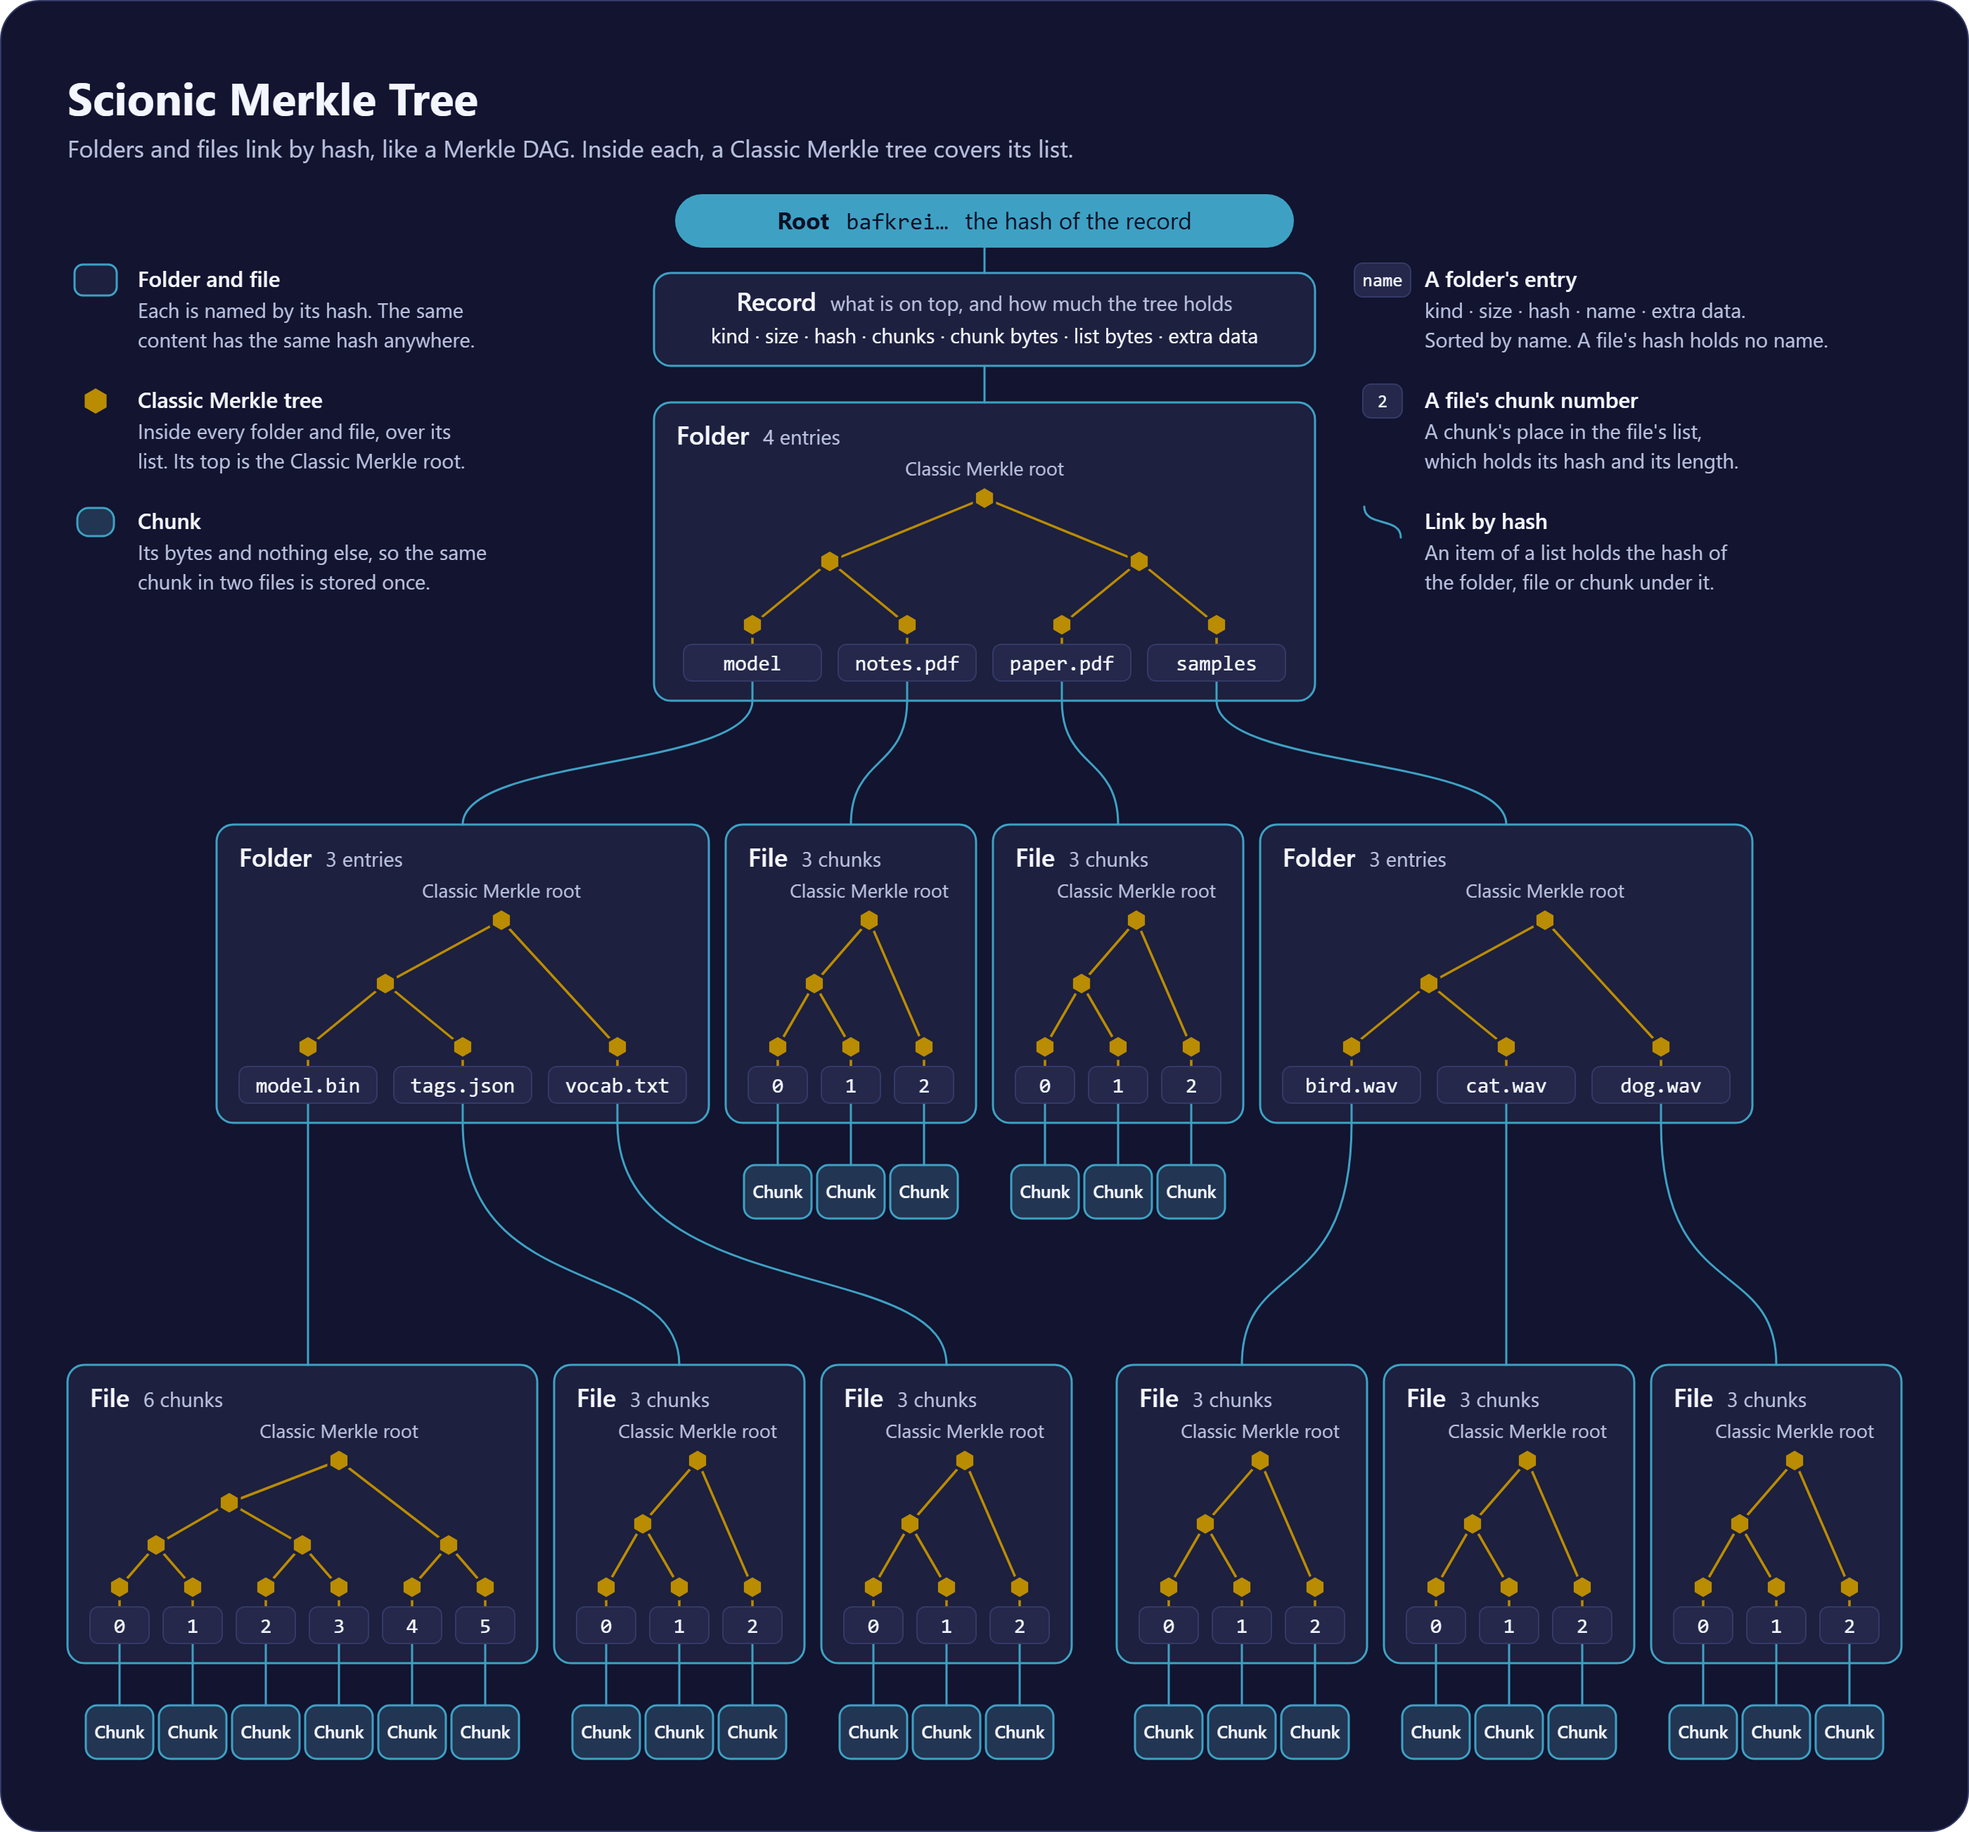
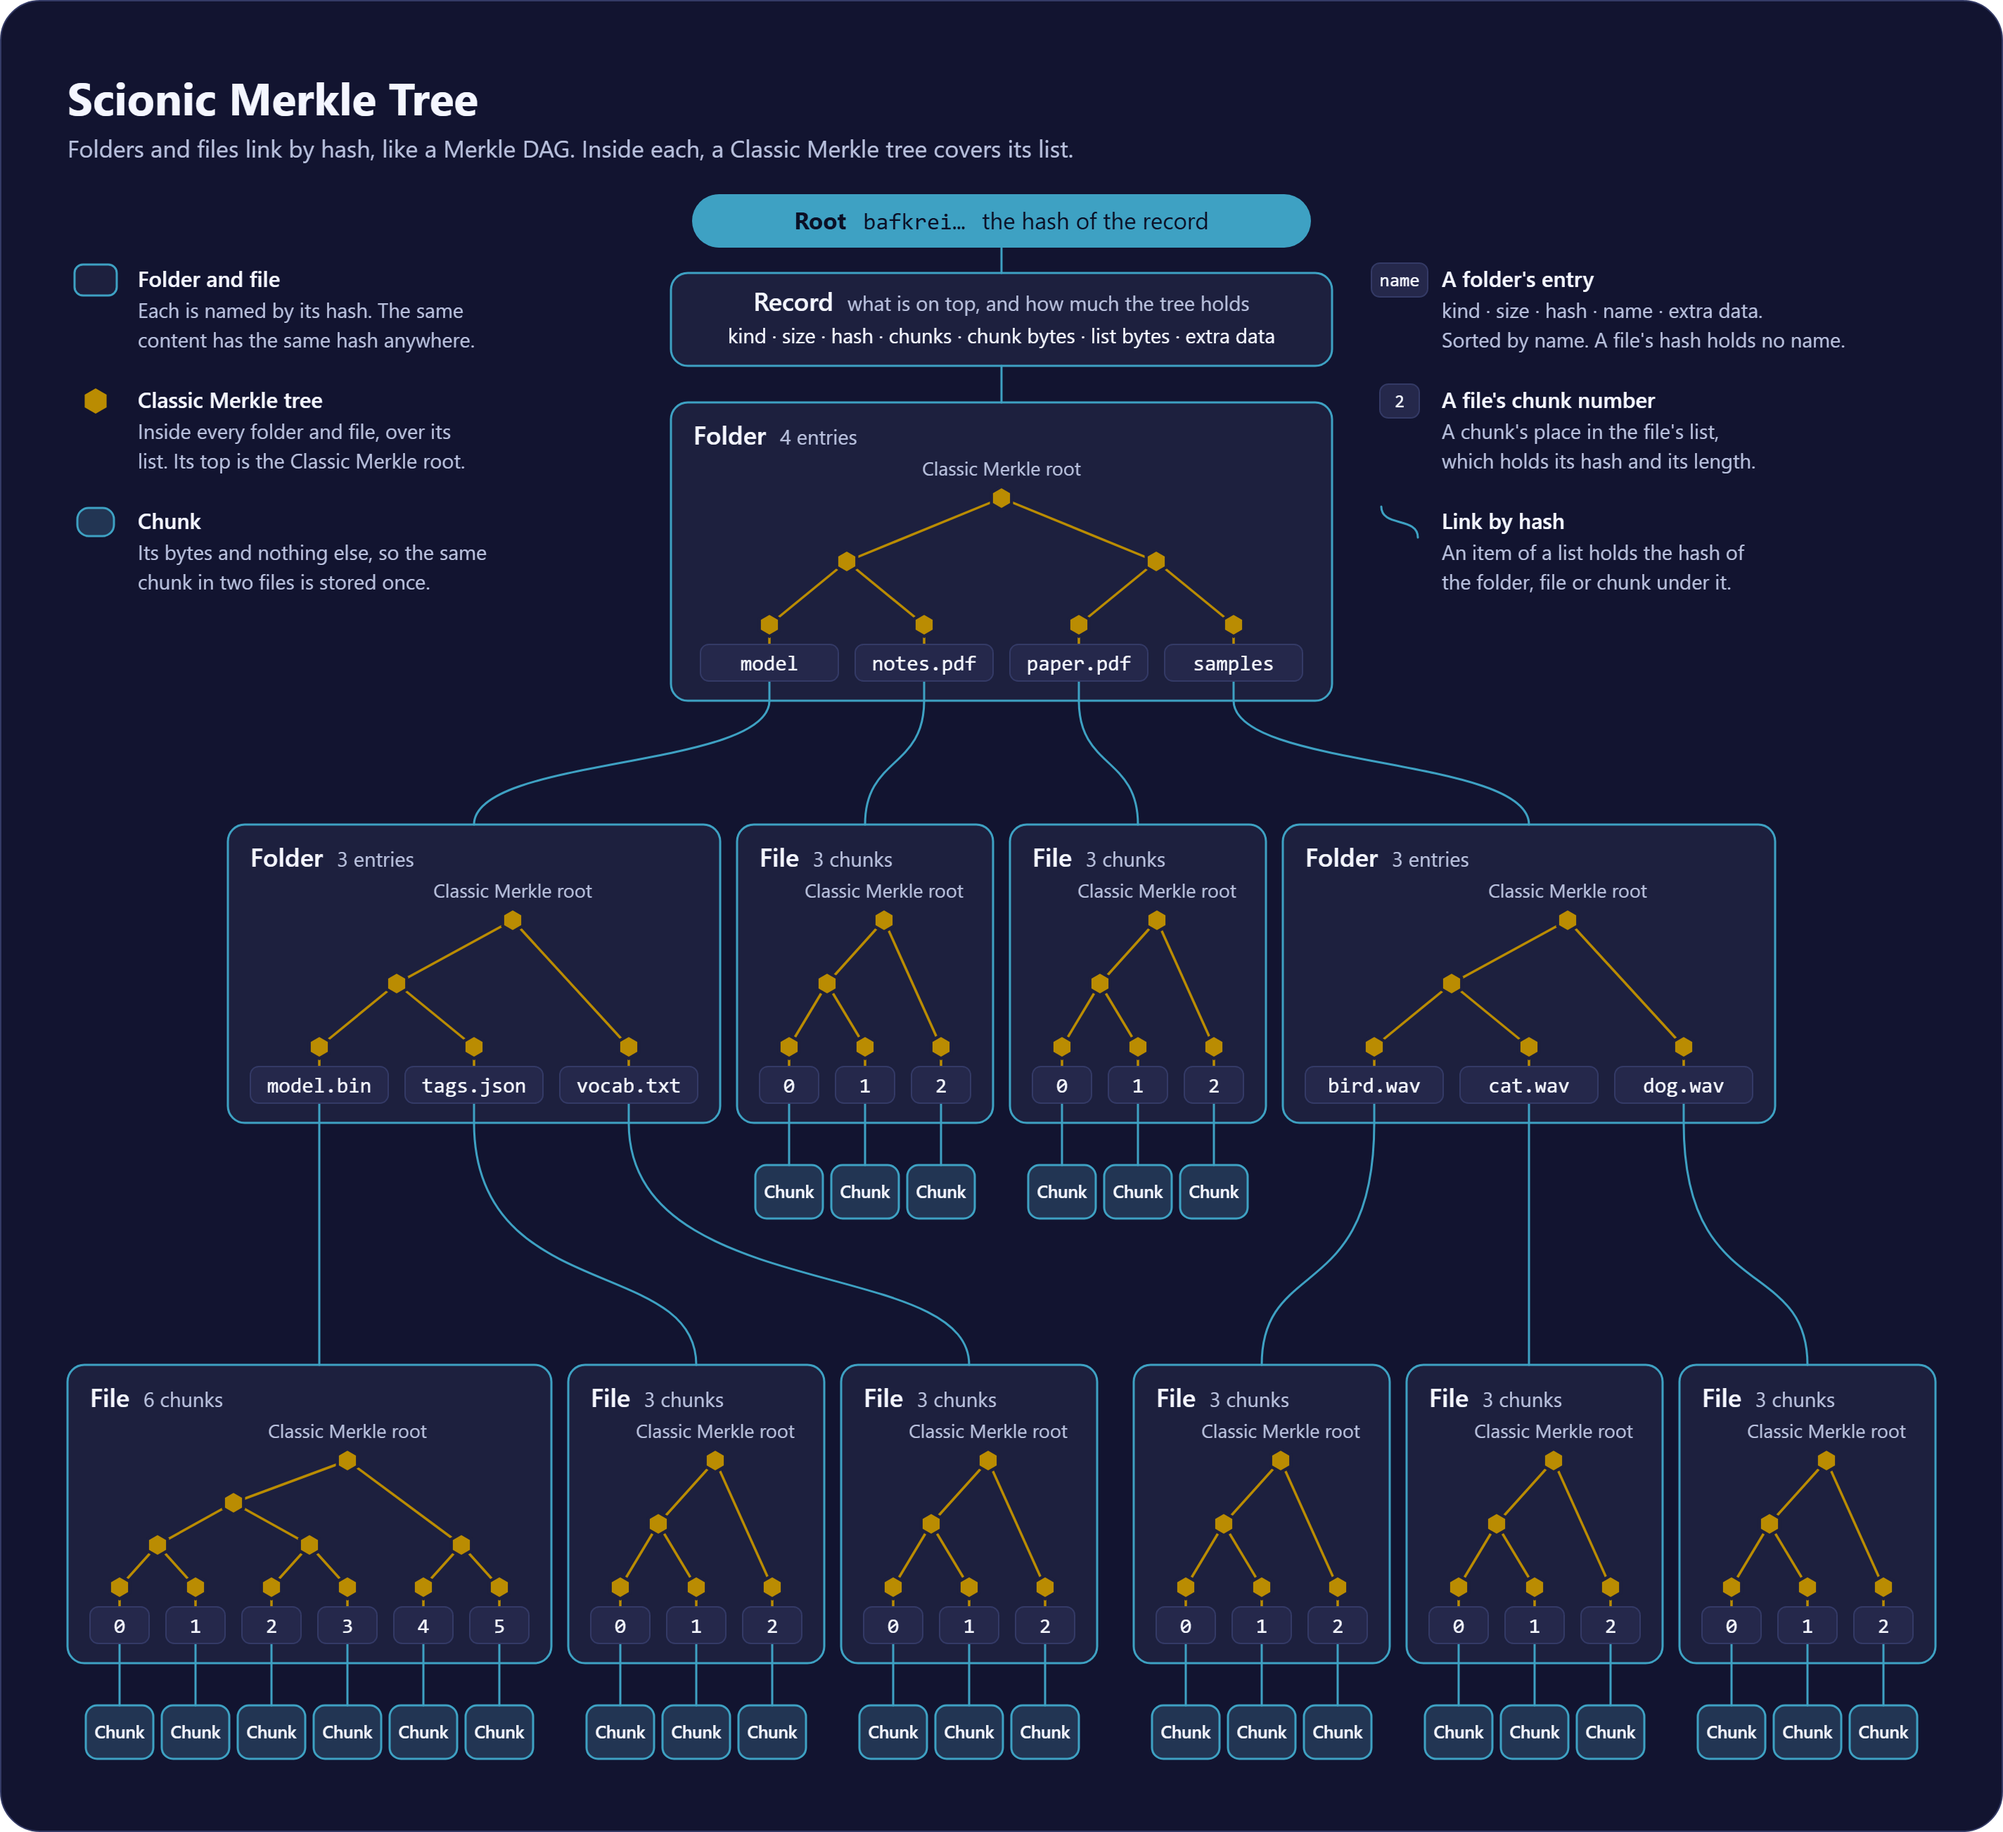
docs: a little more room between the chunks in the tree pictures
With eight files, the chunks under a file stood 4 units apart, which read
as crowded. They stand 6 apart now, as they did with five files.

- The step from one chunk to the next is 54 units where it was 52, and a
  chunk keeps its width.
- The two tree pictures are 1,424 units wide for it, where they were
  1,400.
- A chip that stands almost over the middle of its box has a straight
  link, within 8 units where it was 6.

diff --git a/docs/pictures/README.md b/docs/pictures/README.md
@@ -33,7 +33,7 @@ Everything a picture says is at the top of `pictures.mjs` or in the function tha
 - **`CHUNKS`** is how many chunks each file has. Every file is drawn the way a folder is: a box with the Classic Merkle tree over its list, its chunks' numbers under the tree's leaves, and its chunks under those.
 - **No list in these pictures has fewer than three items.** The tree over two items is a single fork, which does not look like a tree. So the program refuses a folder with fewer than three entries, and a file with fewer than three chunks. The format itself has smaller ones: a file of 512 KiB or less is a single chunk, and its tree is that one leaf.
 - **Every folder and file box has one height,** that of the deepest tree, so that the boxes of a row line up at the top and at the bottom. A tree of fewer levels is drawn as tall as the deepest: every Classic Merkle root stands at one height in its box, and so does every leaf.
-- **The two tree pictures are 1,400 units wide,** a little wider than the table, so that the bottom row holds six files with their chunks at a size that can be read. If the files are given more chunks than fit, the program refuses them, and says how much room they take and how much there is.
+- **The two tree pictures are 1,424 units wide,** a little wider than the table, so that the bottom row holds six files with their chunks at a size that can be read, and with room between one chunk and the next. If the files are given more chunks than fit, the program refuses them, and says how much room they take and how much there is.
 - **`PROVEN`** is the chunk that the branch picture proves, in the first file of the first folder. What is shown, what is sent beside it and what the receiver works out follow from it by the rule in [`spec/FORMAT.md`](../../spec/FORMAT.md), under "Showing a part".
 - **The rows of the table** are in `table()`.
 
